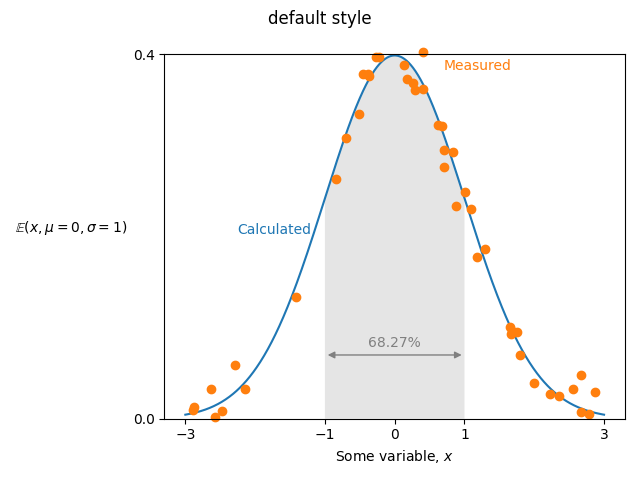
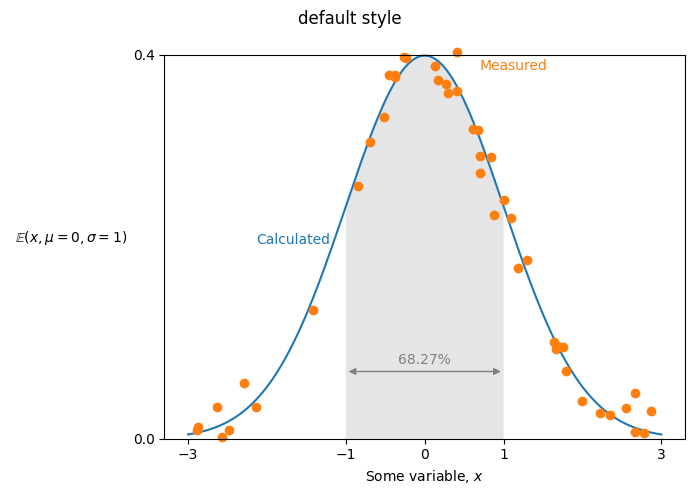
Update width of style demo figures

Changed region(s): [[0.1875, 0.0938, 1.0, 0.9688], [0.4062, 0.0, 0.5938, 0.0625], [0.0, 0.4375, 0.1875, 0.5]]

diff --git a/examples/plot_style_demo.py b/examples/plot_style_demo.py
@@ -50,7 +50,7 @@ for formatting in ["default"] + niceplots.get_available_styles():
         if formatting != "default":
             colours = niceplots.get_colors()
 
-        fig, ax = plt.subplots()
+        fig, ax = plt.subplots(figsize=(7, 5))
 
         # Plotting tip #1, only add axis ticks at important values
         ax.set_yticks([0, 0.4])
